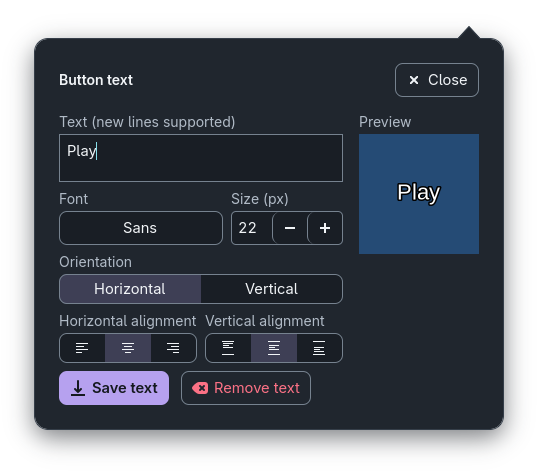
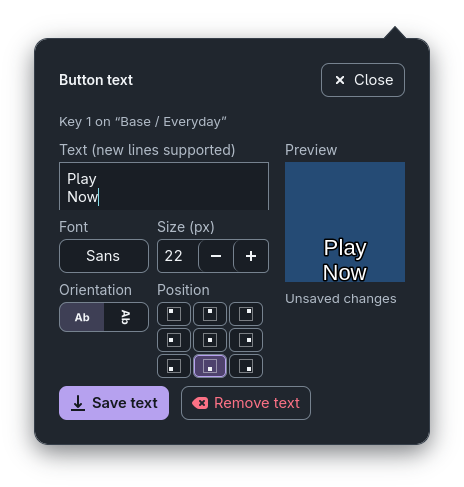
docs: describe the button text popup, regenerate its screenshot
Document the context line, position grid, icon orientation, real key
preview, overflow warning and save rules; capture the popup on an edited
draft.

Changed region(s): [[0.0603, 0.0593, 0.9353, 0.9195], [0.7241, 0.3856, 0.8448, 0.4449]]

diff --git a/src/tests/documentation_screenshots.rs b/src/tests/documentation_screenshots.rs
@@ -373,7 +373,13 @@ fn capture_documentation_screenshots() {
     wait_for_frame(&widgets.root);
     assert_reachable(&editor.open, &widgets.root);
     wait_for_frame(&widgets.root);
-    menu(&directory, &editor.open, "button-text-editor");
+    // Show an edited draft: Save enabled, the unsaved hint and a grid choice.
+    editor.panel.set_autohide(false);
+    editor.open.popup();
+    editor.input.buffer().set_text("Play\nNow");
+    editor.position[7].set_active(true);
+    save(&directory, editor.panel.upcast_ref(), "button-text-editor");
+    editor.open.popdown();
     widgets.artwork_section.set_expanded(true);
     wait_for_frame(&widgets.root);
     assert_reachable(&widgets.target_picker, &widgets.root);

diff --git a/README.md b/README.md
@@ -217,10 +217,11 @@ keypad page; it does not select a touch page.
 
 ![Touch strip selected in the editor](docs/screenshots/touch-strip.png)
 
-**Button text.** **Add text** opens the text editor: font, size, orientation
-and alignment, with a live preview of the key composition. Word-like icons select
-left, center or right and top, center or bottom. Hover for a tooltip; the controls
-also retain distinct accessible names and keyboard focus.
+**Button text.** **Add text** opens the text editor for the selected key
+(the popup names it, for example "Key 1 on “Base / Page 1”"): font, size, a
+pair of orientation icons and a 3x3 position grid, with a live preview of the
+key as the device will show it. Hover for a tooltip; the controls also retain
+distinct accessible names and keyboard focus.
 
 ![Button text editor with a live preview](docs/screenshots/button-text-editor.png)
 
@@ -370,19 +371,29 @@ Saved artwork and profiles are preserved. On the next launch, brightness is rest
 ### Button text
 
 Select a key and click **Add text** in its configuration panel. Once text is
-saved, **Edit text** reopens the same popup with the saved settings.
+saved, **Edit text** reopens the same popup with the saved settings. A line
+under the popup title names the key and the page being edited, for example
+"Key 3 on “Everyday / Page 1”".
 Choose an installed font, a size from 6 to 120 pixels, horizontal or vertical
-orientation, and separate horizontal and vertical alignment. Vertical rotates
-the whole text 90 degrees clockwise; new lines are supported. Text is white
-with a black outline and is drawn over the background image, or over black
-when no image is assigned. Oversized text is clipped to the key.
+orientation (the upright and rotated "Ab" icons), and a position from the 3x3
+grid (top left through bottom right). Vertical rotates the whole text 90
+degrees clockwise; new lines are supported. Text is white with a black outline.
 
-The enlarged preview and the key preview show the same composition sent to
-the device. **Save text** applies and persists the settings for that key in the
-active profile/page and closes the popup. Closing without saving discards
-draft changes. **Remove text** keeps the
-background image; clearing the background keeps the text. Text settings are
-restored when reopening the application or switching profiles/pages.
+The enlarged preview shows the key exactly as the device will: the text over
+the key's background image, or, for a key without an image, over its action
+icon when the text leaves room for it (text at the top or bottom), otherwise
+over black. When the text is larger than the key at the chosen size, a warning
+under the preview says it does not fit; you can still save it, and the device
+clips it to the key.
+
+**Save text** (or **Ctrl+Enter**; plain Enter adds a new line) applies and
+persists the settings for that key in the active profile/page and closes the
+popup. It is available only when the text is not blank and differs from what is
+saved; "Unsaved changes" appears under the preview while it does. Closing
+without saving discards draft changes. **Remove text** appears only for a key
+with saved text; it keeps the background image, and clearing the background
+keeps the text. Text settings are restored when reopening the application or
+switching profiles/pages.
 
 ### Background images
 

diff --git a/DESIGN.md b/DESIGN.md
@@ -365,22 +365,33 @@ popovers contain secondary content. No primary field forces horizontal scroll.
   labeled, with guidance that testing executes and saving only persists.
 - **Button text:** the configuration inspector contains one keypad-only
   Add text / Edit text button. Both states open the same anchored popup,
-  prefilled with the selected key's saved settings. The editor fields and
+  prefilled with the selected key's saved settings. A muted context line under
+  the title names what is edited, "Key N on “<view>”", where the view is the
+  page indicator's label (profile / folders / page). The editor fields and
   enlarged preview appear only in the popup. A compact two-column body keeps
   the entire 120px live preview next to the form, with no popup scrolling at
   640x480 or larger. Only a long multiline text input may scroll internally.
-  Use a native font chooser button, a 6–120px size spinner and linked, grouped
-  toggle buttons for horizontal/vertical orientation and separate
-  left/center/right and top/center/bottom alignment. Alignment choices use
-  16px monochrome line icons, like word-processor alignment tools, instead of
-  button captions. Horizontal icons line up text edges; vertical icons position
-  text between top and bottom guides. They inherit the control's theme color
-  and retain tooltips, distinct accessible names and native grouped selection.
+  Use a native font chooser button, a 6–120px size spinner, and one row with
+  a linked pair of orientation icon toggles (upright and clockwise-rotated
+  "Ab", named Horizontal and Vertical) beside a 3x3 Position grid of grouped
+  toggles (one active; Top left .. Bottom right, each a key outline with a
+  dot where the text sits). Grid cells map row to vertical and column to
+  horizontal alignment, inherit the control's theme color, are reachable with
+  Tab and arrow keys, and keep tooltips and distinct accessible names.
   Vertical text
   rotates the layout 90 degrees clockwise. White glyphs with a thin black
-  outline sit above the existing background image. An enlarged 120px preview
-  and the physical key preview share the device compositor. Save text is
-  explicit; removing text preserves the background, and clearing the background
+  outline sit above the key's background. The enlarged 120px preview and the
+  physical key preview show the key as the device does: its artwork, else its
+  binding icon tile when the text leaves the icon a band, else the neutral
+  black key; the derived picture is never stored. When the Pango ink extents
+  exceed the 116px text area, a warning-toned "Text does not fit; try a
+  smaller size" sits under the preview; it is informational. Save text is
+  explicit and enabled only for a valid, nonblank value that differs from the
+  saved one (Ctrl+Enter saves; plain Enter inserts a line); its tooltip says
+  why it is disabled. A muted "Unsaved changes" hint under the preview tracks
+  the draft; it never sits in the button row, so it cannot widen the popup.
+  Remove text is shown only for a key with saved text. Removing text
+  preserves the background, and clearing the background
   preserves text. Closing without saving discards the draft preview. Changing
   key or profile closes the popup and reloads that context. Editor chrome
   continues to use the GTK system font and existing spacing/field primitives.

diff --git a/odd/tasks/streamdeck-plus-button-text-popup.md b/odd/tasks/streamdeck-plus-button-text-popup.md
@@ -23,7 +23,7 @@ there is no keyboard shortcut to save.
 ## Tasks
 - [x] T1 Context and state: header context "Key N on “<page>”"; Save insensitive when unchanged or invalid; Remove only when the key has saved text; Ctrl+Enter saves; unsaved-changes hint; GTK tests.
 - [x] T2 Layout: single 3x3 "Position" grid replacing the two alignment rows; orientation as compact icon toggles; preview drawn on the key's real background (artwork or binding icon tile) with an overflow warning when the text does not fit; fit tests still pass. GTK tests.
-- [ ] T3 DESIGN.md, README.md, CHANGELOG.md, regenerated button-text-editor screenshot.
+- [x] T3 DESIGN.md, README.md, CHANGELOG.md, regenerated button-text-editor screenshot.
 
 ## Route
 Delegated direct (one writer): 2+ non-trivial files. RDD unavailable (`gentle-ai` not installed).
@@ -87,5 +87,24 @@ bin suite 63/63; git diff --check ok. Commit: see git log
 (`feat(button-text): position grid, icon orientation and real key preview`).
 Engram mirror pending.
 
+### T3
+Route: delegated direct (writer). Layout polish commit first
+(`style(button-text): align the text popup fields in one grid`): Font/Size and
+Orientation/Position share one gtk::Grid so Position sits under Size; the
+context line gets 4px before the form. Then DESIGN.md (button text contract:
+context line, orientation pair + Position grid, real key background, overflow
+warning, Save/Remove/unsaved/Ctrl+Enter rules), README.md (overview blurb and
+Button text section), CHANGELOG.md (Changed). The documentation generator now
+opens the popup on an edited draft ("Play\nNow", Bottom center) so Save is
+enabled and the unsaved hint shows. Regenerated docs/screenshots; only
+button-text-editor.png (462x490) changed visually (AE ~23k); the other five
+regenerated PNGs differed by ~90-600 pixels of noise (temp-path pid in
+import-configuration) and were restored.
+Test-first exception: passive docs/screenshots; checked by reading the PNG and
+the light/dark QA captures. Checks: fmt ok; clippy -D warnings ok; headless
+333 lib + 63 bin + 2 ok; display bin suite 63/63; `STREAMDECK_TEXT_QA_DIR`
+fit path ok; git diff --check ok. Commit: see git log (`docs: describe the
+button text popup ...`). Engram mirror pending.
+
 ## Next step
-T3.
+Human review; push/PR remain the user's decision.

diff --git a/CHANGELOG.md b/CHANGELOG.md
@@ -8,6 +8,14 @@ tagged yet, so everything below is unreleased (package version `0.1.0`).
 
 ### Changed
 
+- **Button text popup.** A line under the title names the edited key and page
+  ("Key 3 on “Everyday / Page 1”"). One 3x3 Position grid replaces the two
+  alignment rows, and orientation is a linked pair of icon toggles. The
+  preview draws the text on the key's real background: its artwork, else its
+  action icon tile, else the neutral key. Save text is enabled only for valid
+  changes, Remove text appears only for saved text, an "Unsaved changes" hint
+  tracks the draft, Ctrl+Enter saves, and a warning appears when the text does
+  not fit the key (saving is still allowed).
 - **Page folders popover.** Folders are listed as rows with Open, Link to
   control, Rename and Delete icon actions (tooltips and accessible names
   include the folder name) instead of a dropdown with captioned buttons. The
